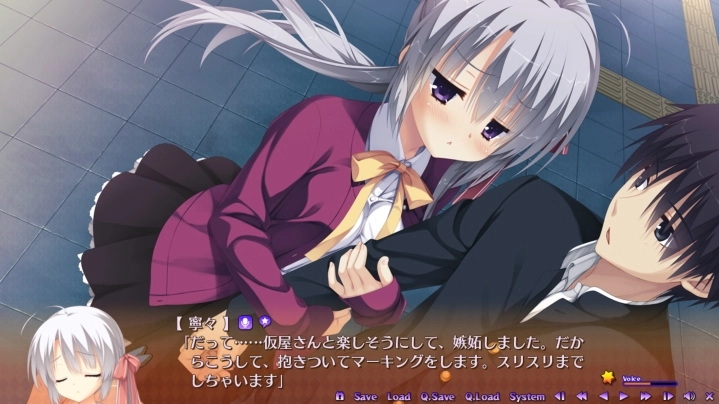
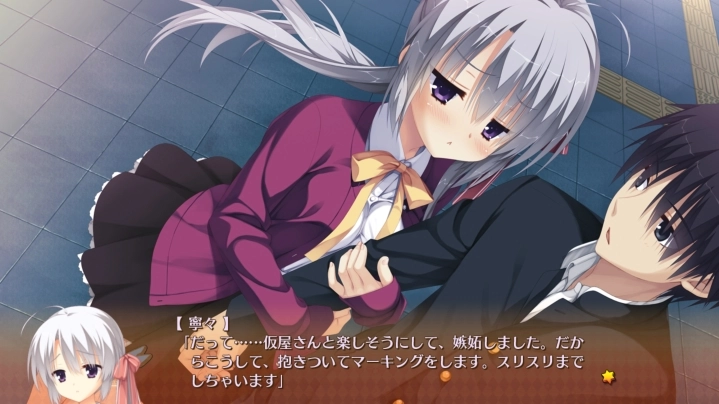
Site updated: 2023-12-24 20:04:20

Changed region(s): [[0.459, 0.9208, 1.0, 1.0], [0.0612, 0.8911, 0.153, 0.9505], [0.306, 0.7723, 0.3978, 0.8317]]

diff --git a/articles/sabbat-of-the-witch-review/index.html b/articles/sabbat-of-the-witch-review/index.html
@@ -71,7 +71,7 @@
 <h3 id="椎葉-紬"><a href="#椎葉-紬" class="headerlink" title="椎葉 紬"></a>椎葉 紬</h3><p>作中で柊史と同じクラスに転入して、その後オカルト研究部に所属する魔女。<br>春風駘蕩で、争いを好まず、一生懸命に頑張る性格である。<br>魔女契約の代償により、女の子っぽい服装をすればするほど具合が悪くなるようになったため、普段は男装している。<br>その一方で、本来は可愛くて女の子らしい恰好を好む。<br>彼女の魔女服は可愛く、本人にとっても普段は着ることができない可愛い服であるので、とても気に入っている模様。</p>
 <p>個別ルートは、彼女のアルプを中心にストーリーが展開されていくため、彼女自身が脚光を浴びることは極端に少ない。<br>本作において彼女のルートが、アルプが何者であるかをプレイヤーに説明する重要な役割を果たすストーリーであるとは分かる。<br>しかし、他のヒロインルートと異なり、メインであるはずの彼女の印象が残りにくくなっているのが残念でならない。<br>それは、彼女のキャラクタライズが不完全で、個別ルート中に乗り越えるべき重大な課題を彼女自身が持っていなかったことが原因の一つであろう。</p>
 <p>苦言を呈するような形となってしまったが、もちろん彼女も他ヒロインと同様にしっかりと可愛さを備えているのでご安心を。<br>彼女は、本作ヒロインの中で最も母性が強いキャラクターであるので、バブみを感じてみたい紳士は是非攻略してみてほしい。<br>きっと大満足すること間違いないであろう。</p>
-<figure><a href="/articles/sabbat-of-the-witch-review/shiiba_tsumugi.webp" class="gallery-item"><img src="/articles/sabbat-of-the-witch-review/shiiba_tsumugi_preview.webp" alt="椎葉 紬" loading="lazy" width="719" height="404"><figcaption class="has-text-centered is-size-6 caption">紬ちゃん、女の子の恰好できて良かったね © YUZUSOFT &#x2F; JUNOS INC. All Rights Reserved.</figcaption></a></figure>
+<figure><a href="/articles/sabbat-of-the-witch-review/shiiba_tsumugi.webp" class="gallery-item"><img src="/articles/sabbat-of-the-witch-review/shiiba_tsumugi_preview.webp" alt="椎葉 紬" loading="lazy" width="719" height="404"><figcaption class="has-text-centered is-size-6 caption">紬ちゃんに看病されたいです © YUZUSOFT &#x2F; JUNOS INC. All Rights Reserved.</figcaption></a></figure>
 
 <h3 id="戸隠-憧子"><a href="#戸隠-憧子" class="headerlink" title="戸隠 憧子"></a>戸隠 憧子</h3><p>柊史の一つ年上の先輩で、学生会長を努める一般人。<br>共通ルートの途中で学生会を引退してからは、オカルト研究部に所属する。<br>三年生のアイドル的存在であり、前述の通り綾地寧々と学院の人気を二分するほどの人望を持つ。<br>温柔敦厚で、洞察力に優れ、気遣い上手だが、人を揶揄うのを好きなお茶目な面もある。<br>柊史の不思議な力が効かない唯一の人物であり、声をかける度にいつも彼を驚かせている。</p>
 <p>個別ルートは、恋愛をテーマとするストーリーとなっている。<br>彼女は、柊史を見ると安心感を覚えると言い、親近感が沸くようで、二人で一緒に恋の勉強を始めることになる。<br>その後の「部活（仕事）と私、どっちが大事か？」というお悩み相談に対する考察や回答は、なるほど、そういう考え方もあるのか、と大いに勉強になった。<br>実際に同じようなことを問われている方は、参考にしてみるのも良いだろう。</p>
